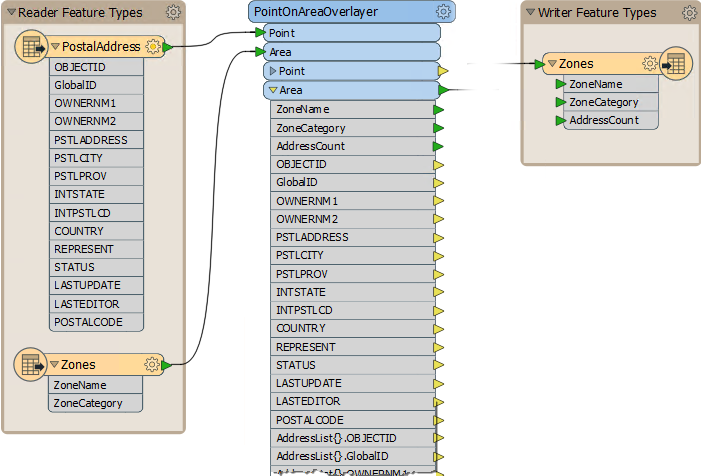
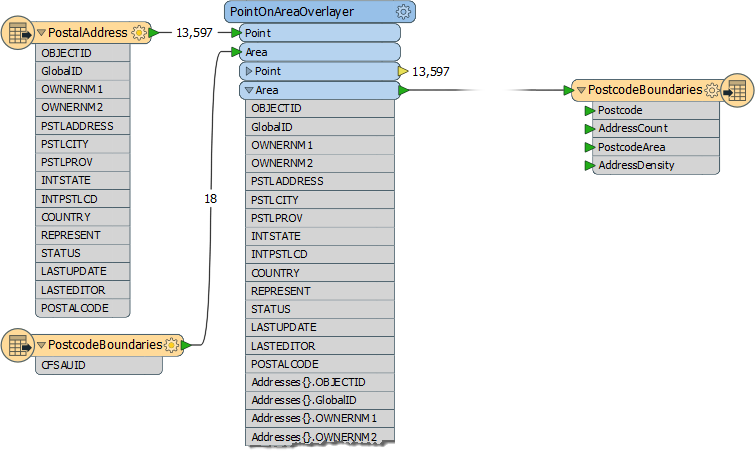
2018 Ch5 Cleanup of Performance Methodology

diff --git a/DesktopBasic5BestPractice/5.12.PerformanceMethodology.md b/DesktopBasic5BestPractice/5.12.PerformanceMethodology.md
@@ -62,9 +62,9 @@ Once data has been read into a workspace, it still can be reduced in size to ass
 
 ![](./Images/Img5.042.ExcessAttrs.png)
 
-Here a workspace author is calculating the number of addresses in each "zone" of a city. The address attributes are not required in the output schema, but are being kept on all address features. Even worse they are being copied on to the zone features, a list of addresses calculated, and everything carried through to the end of the workspace.
+Here a workspace author is calculating the number of addresses in each postcode (CFSAUID) of a city. The address attributes are not required in the output schema, but are copied on to the postcode features, along with a list of addresses, and everything carried through to the end of the workspace.
 
-In this scenario the author would do well to add an AttributeRemover transformer to delete excess attributes:
+In this scenario the author should avoid the PointOnAreaOverlayer options for copying attributes and creating lists:
 
 ![](./Images/Img5.043.RemoveExcessAttrs.png)
 
